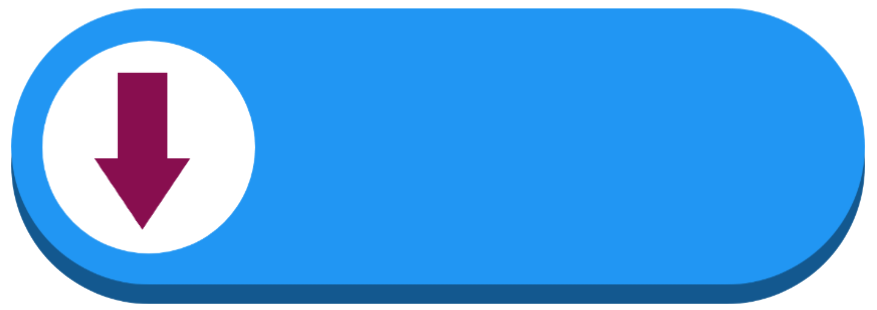
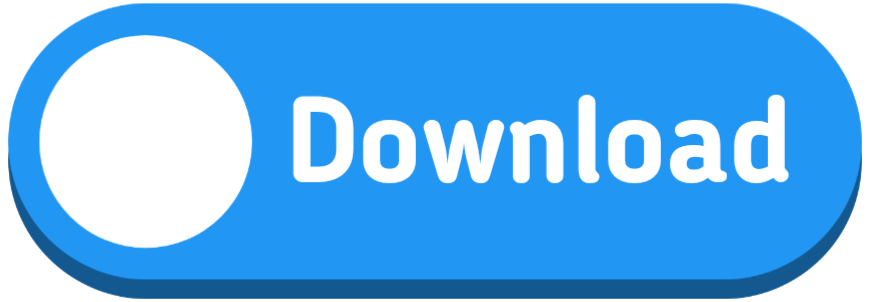
Starting from Zero

diff --git a/style.css b/style.css
@@ -1,88 +1,0 @@
-
-#top_panel {
-    margin-top: 10px;
-    display: flex;
-    justify-content: left;
-    gap: 10px; /*distance between menu and pramodcody*/
-    border-bottom: 2px solid black;
-}
-
-
-#menu_button {
-    margin-top: 20px;
-    margin-bottom: 20px;
-    background-color: white;
-    border: none;
-    display: flex;
-    align-items: center;
-}
-
-
-
-
-
-#project_topic {
-    margin-top: 20px;
-    display: flex;
-    flex-direction: column;
-    align-items: center;
-    gap: 10px;
-}
-
-#project_topic img {
-    width: 20%;
-    max-width: 200px;
-    height: auto;
-}
-
-#project_topic h2 {
-    margin-top: -10px;
-    color: rgb(203, 27, 209);
-}
-
-
-
-
-#download_apk {
-    margin-top : 20px;
-    display: flex;
-    flex-direction: column;
-    align-items: center;
-}
-#download_apk h3 {
-    margin: 0px;
-    font-size: 12px;
-}
-
-#download_apk img {
-    width: 30%;
-    height: auto;
-}
-
-#download_apk button {
-    background-color: white;
-    border: none
-}
-
-#download_apk button:active {
-    transform: scale(0.97);
-}
-
-
-
-
-
-
-#classium_screenshots {
-    margin-top: 40px;
-    margin-bottom: 0px;
-    display: flex;
-    flex-direction: column;
-    align-items: center;
-    gap: 10px;
-}
-
-#classium_screenshots img {
-    width: 60%;
-    height: auto;
-}

diff --git a/index.html b/index.html
@@ -4,50 +4,8 @@
     <meta charset="UTF-8">
     <meta name="viewport" content="width=device-width, initial-scale=1.0">
     <title>PramodCody</title>
-    <link rel="prefetch" href="assets/Kids_Classium.apk">
-    <link rel="stylesheet" href="style.css">
 </head>
 <body>
     
-    <!-- website top panel -->
-    <div id="top_panel">
-        <button id="menu_button">
-            <img src="assets/menu_button_light_mode.png" alt="menu_button">
-        </button>
-        <h1 id="pramodcody_logo">PramodCody</h1> <!--pramodcody logo -->
-    </div>
-    
-
-    <!-- website default home -->
-    <div id="home">
-
-        <div id="project_topic">
-            <img src="assets/kids_classium_logo.png" alt="kids_classium_logo">
-            <h2>Kids_Classium</h2>
-        </div>
-
-        <div id="download_apk">
-            <h3>click here to download kids_classium.apk</h3>
-            <button id="download_apk_button">
-                <img src="assets/download_button.png" alt="download_button">
-            </button>
-        </div>
-        
-        <!--kids_classium games screenshots-->
-        <div id="classium_screenshots">
-            <h2>SCREENSHOTS:</h2>
-            <img src="assets/screenshot1.webp" alt="screenshot1">
-            <img src="assets/screenshot2.webp" alt="screenshot2">
-            <img src="assets/screenshot3.webp" alt="screenshot3">
-            <img src="assets/screenshot4.webp" alt="screenshot4">
-            <img src="assets/screenshot5.webp" alt="screenshot5">
-            <img src="assets/screenshot6.webp" alt="screenshot6">
-            <img src="assets/screenshot7.webp" alt="screenshot7">
-        </div>
-
-    </div>
-
-    
-    <script src="script.js"> </script>
 </body>
 </html>

diff --git a/script.js b/script.js
@@ -1,10 +1,0 @@
-const download_button = document.getElementById("download_apk_button");
-
-download_button.addEventListener('click', function(){
-
-    const download_link = document.createElement('a'); //a storage space created
-    download_link.href = "assets/Kids_Classium.apk"; //href = file location
-    download_link.download = "Kids_Classium.apk"; //download = file name
-    download_link.click();
-
-});